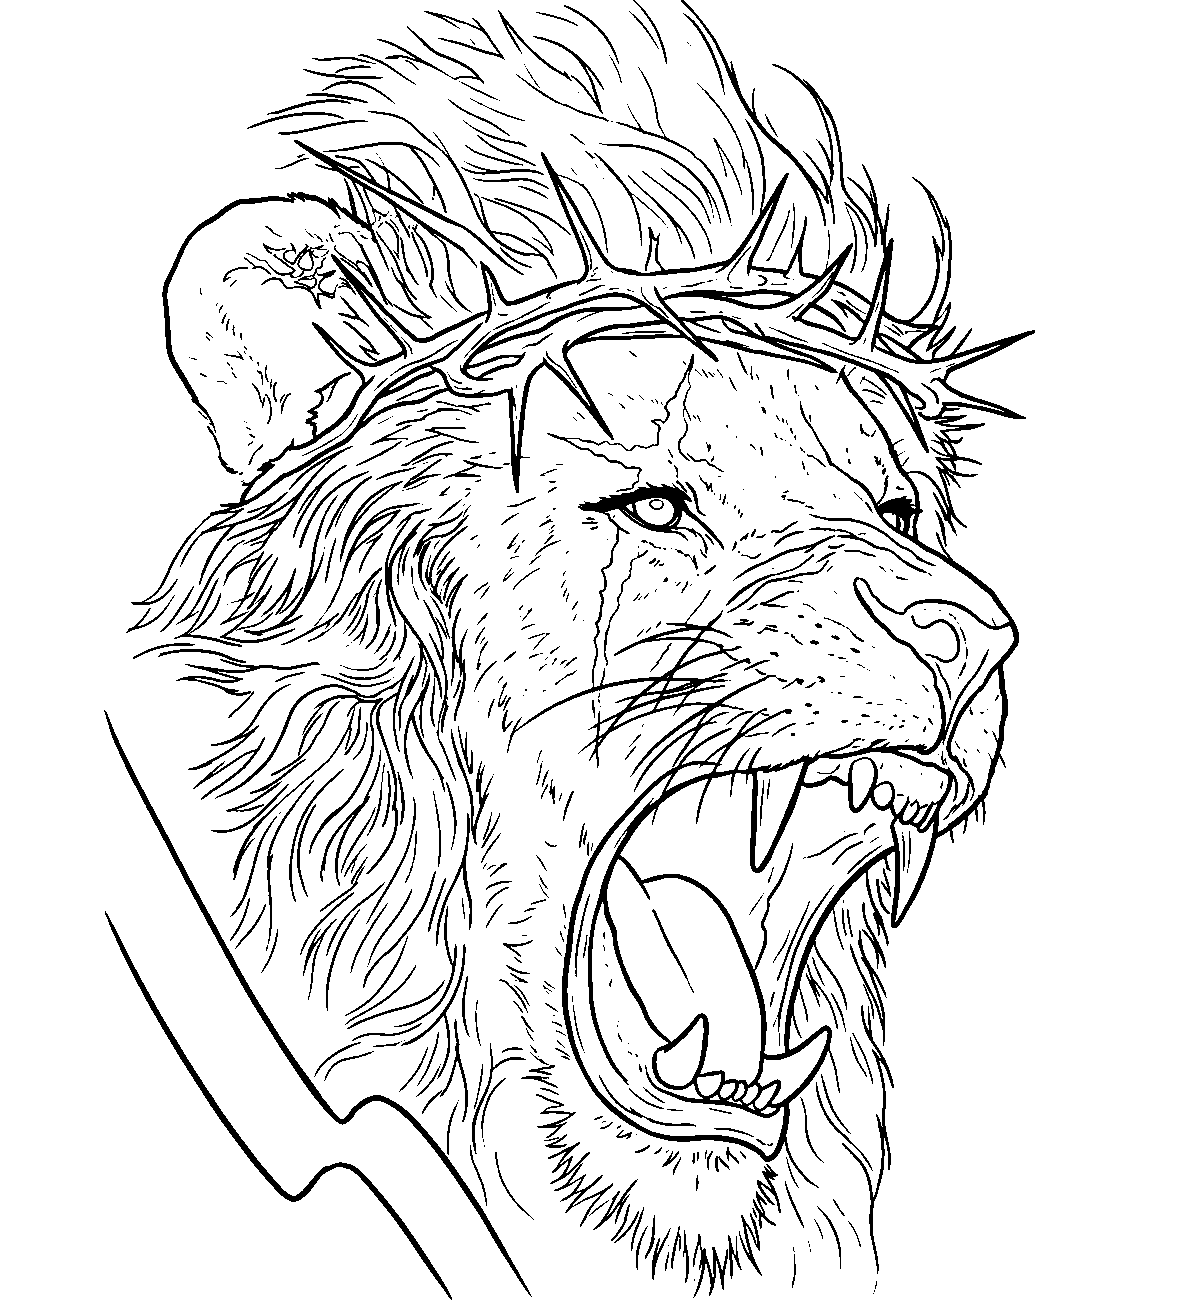
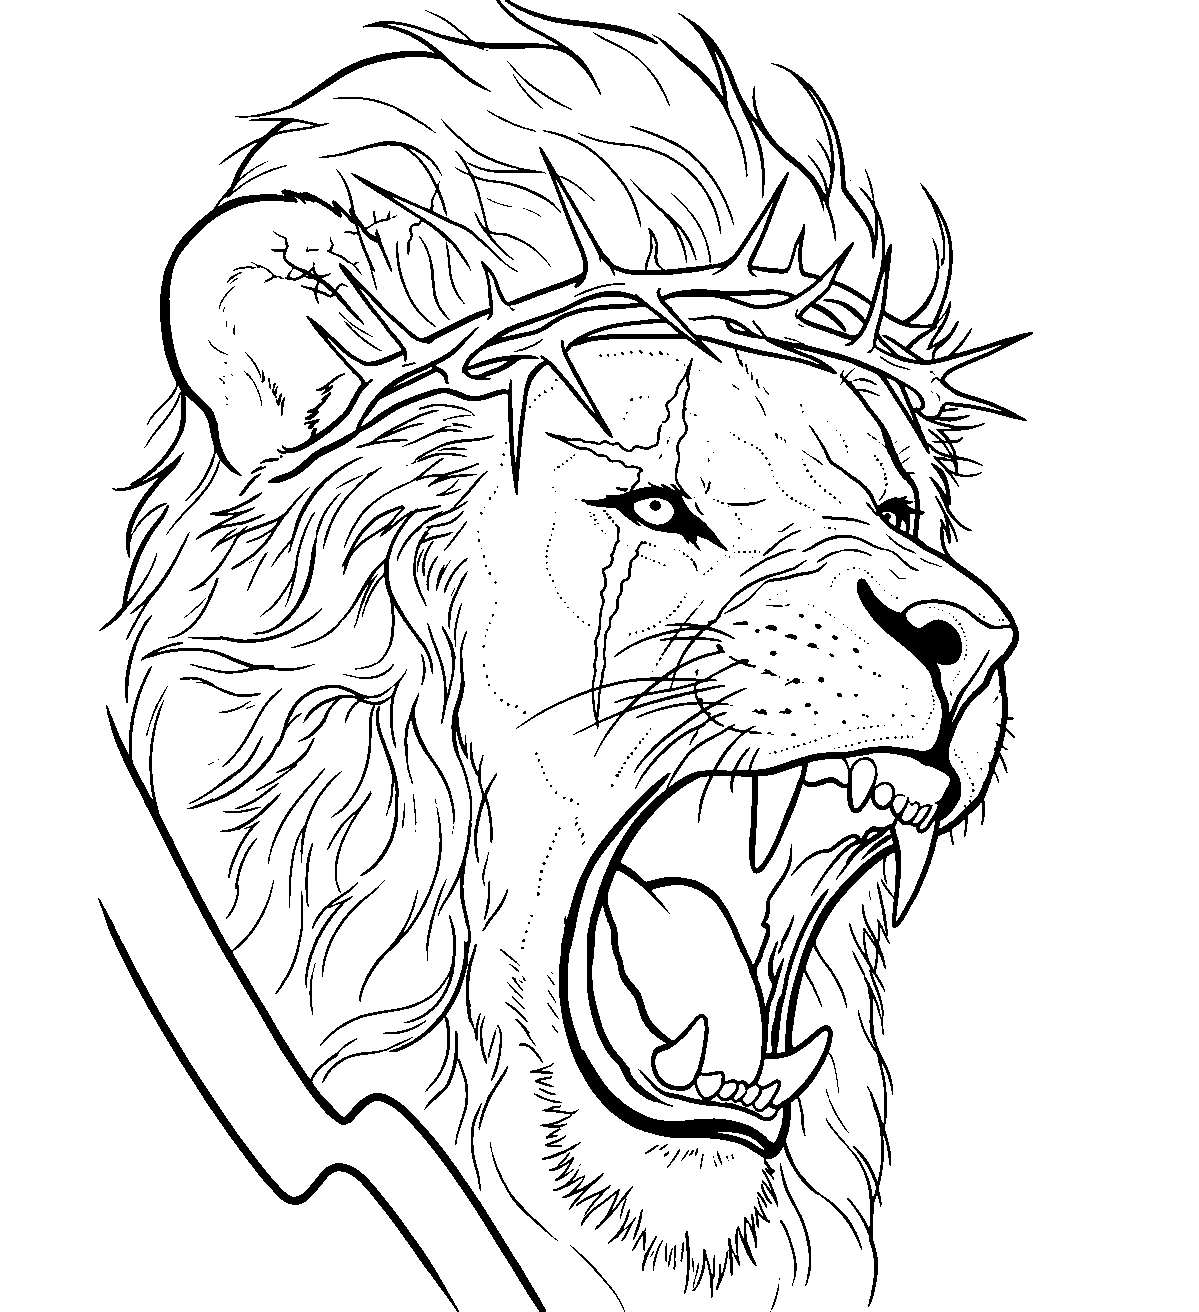
auto-commit for 6d21e7a0-b5cf-41ce-a788-31e34a0501b7

diff --git a/backend/static/blueprint_heavy.html b/backend/static/blueprint_heavy.html
@@ -1,0 +1,37 @@
+<!DOCTYPE html>
+<html><head><meta charset="utf-8"><title>Blueprint Heavy — Facial Dotted Guides</title>
+<style>
+body{font-family:-apple-system,system-ui,sans-serif;background:#0a0a0a;color:#e7e2d4;margin:0;padding:24px;max-width:1300px;margin:0 auto}
+h1{color:#c9a227;margin:0 0 6px;letter-spacing:.4px}
+.note{color:#9ca3af;font-size:14px;margin-bottom:24px;line-height:22px}
+.note b{color:#c9a227}
+section{margin-bottom:32px}
+h2{color:#c9a227;font-size:18px;margin:18px 0 10px}
+.grid{display:grid;grid-template-columns:1fr 1fr;gap:18px}
+.panel{background:#151515;border:1px solid rgba(201,162,39,.25);border-radius:10px;padding:14px}
+.panel h3{margin:0 0 10px;color:#c9a227;font-size:14px;letter-spacing:.4px}
+.panel img{width:100%;background:white;border-radius:8px;display:block}
+.panel p{color:#9ca3af;font-size:12px;line-height:18px;margin:10px 0 0}
+.heavy h3{color:#7CC98E}
+</style></head>
+<body>
+<h1>Blueprint Heavy — Facial Dotted Shading Guides</h1>
+<p class="note">Heavy now includes an explicit exception: <b>dotted shading guides on facial contours only</b> (cheeks, jawline, brow ridges, nose bridge, under eyes, lip volumes). Everything else in the Blueprint Mode prompt is unchanged — zero fills, line-only output, three-tier hierarchy, no shading on hair/mane/body/clothing. The exception is narrowly scoped to Heavy + face.</p>
+
+<section>
+<h2>Skull Makeup Woman — Heavy</h2>
+<div class="grid">
+  <div class="panel"><h3>Reference</h3><img src="/api/prompt-preview-asset/portrait3.jpg"/></div>
+  <div class="panel heavy"><h3>Blueprint Heavy (with facial dotted guides)</h3><img src="/api/prompt-preview-asset/blueprint_skull_heavy.png"/></div>
+</div>
+</section>
+
+<section>
+<h2>Roaring Lion + Thorn Crown — Heavy</h2>
+<div class="grid">
+  <div class="panel"><h3>Reference</h3><img src="/api/prompt-preview-asset/portrait4.jpg"/></div>
+  <div class="panel heavy"><h3>Blueprint Heavy (with facial dotted guides)</h3><img src="/api/prompt-preview-asset/blueprint_lion_heavy.png"/></div>
+</div>
+</section>
+
+</body></html>

diff --git a/backend/server.py b/backend/server.py
@@ -1914,7 +1914,16 @@ def build_blueprint_prompt(line_color: str, detail_level: str) -> str:
             "saturated — many individual hair/fur strands, small creases, fine structural "
             "marks. More detail than Medium. CRITICAL: more detail NEVER means more fill "
             "or more shading. More detail means more TERTIARY STRUCTURAL LINES. Every "
-            "extra mark must describe a real structural feature the reference actually shows."
+            "extra mark must describe a real structural feature the reference actually shows.\n"
+            "\n"
+            "FACIAL DOTTED SHADING GUIDES (Heavy only, face only): In addition to the three "
+            "line tiers, add DOTTED or DASHED shading guides on the facial contours only — "
+            "cheeks, jawline, brow ridges, nose bridge, under the eyes, and lip volumes — "
+            "to mark where the tattoo artist will add shading on skin. These dotted guides "
+            "stay at normal visible dot size (do not shrink them). They are permitted ONLY "
+            "at the Heavy detail level, ONLY on the face, and they remain line work — "
+            "never filled regions. This is the single exception to the no-dotted-shading "
+            "rule in the ZERO-FILL section above."
         ),
     }
     detail_text = detail_blocks.get(detail_level, detail_blocks["moderate"])
@@ -5523,6 +5532,16 @@ async def prompt_preview_prescan_page():
 async def blueprint_mode_page():
     """Live preview of Blueprint Mode output for skull + lion references."""
     html_path = "/app/backend/static/blueprint_mode.html"
+    if os.path.exists(html_path):
+        with open(html_path, 'r') as f:
+            return HTMLResponse(content=f.read())
+    raise HTTPException(status_code=404, detail="Preview page not found")
+
+
+@api_router.get("/blueprint-heavy")
+async def blueprint_heavy_page():
+    """Focused preview: Heavy-only with facial dotted shading guides."""
+    html_path = "/app/backend/static/blueprint_heavy.html"
     if os.path.exists(html_path):
         with open(html_path, 'r') as f:
             return HTMLResponse(content=f.read())

diff --git a/backend/scripts/blueprint_mode_demo.py b/backend/scripts/blueprint_mode_demo.py
@@ -18,7 +18,7 @@ IMAGES = {
     "skull": ("/app/backend/static/portrait3.jpg", "stencil_heavy_skull.png", "stencil_light_skull.png"),
     "lion":  ("/app/backend/static/portrait4.jpg", "stencil_heavy_lion.png",  "stencil_light_lion.png"),
 }
-STYLES = ["light", "heavy"]  # skip medium to keep runtime short
+STYLES = ["heavy"]  # focused: heavy-only preview
 
 
 async def gen(client: httpx.AsyncClient, image_b64: str, style: str, out_path: str) -> None:
